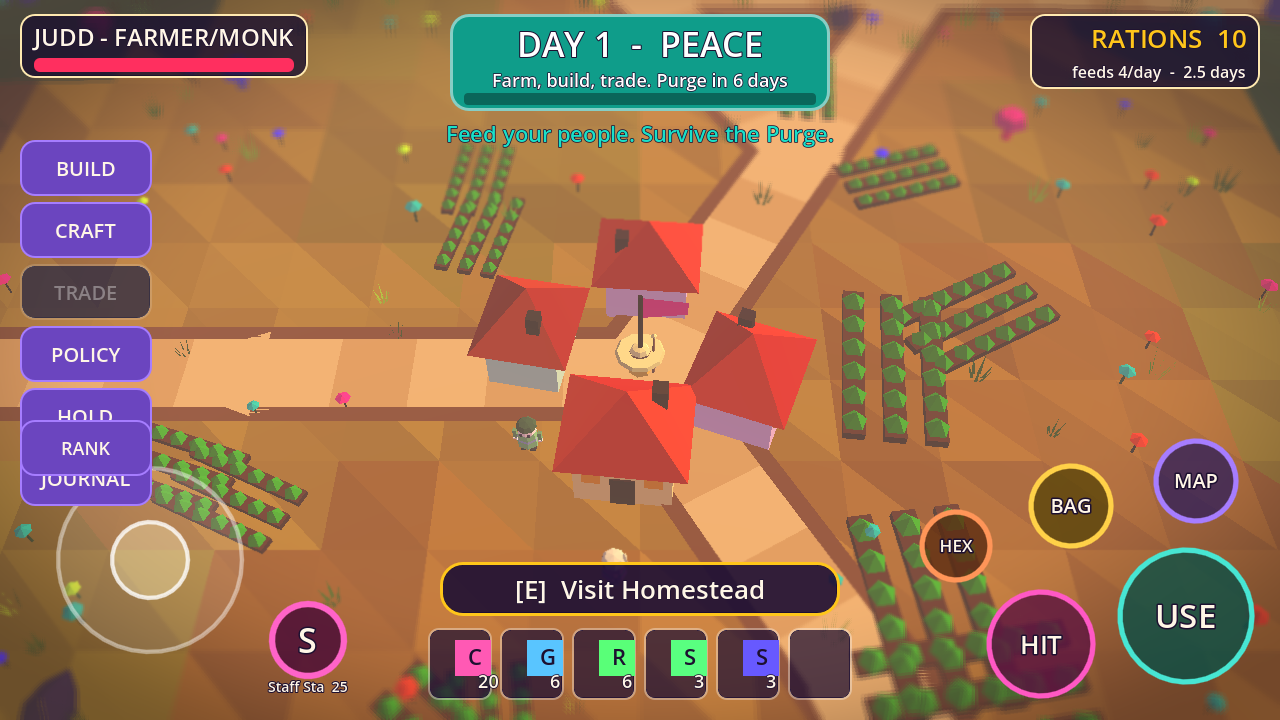
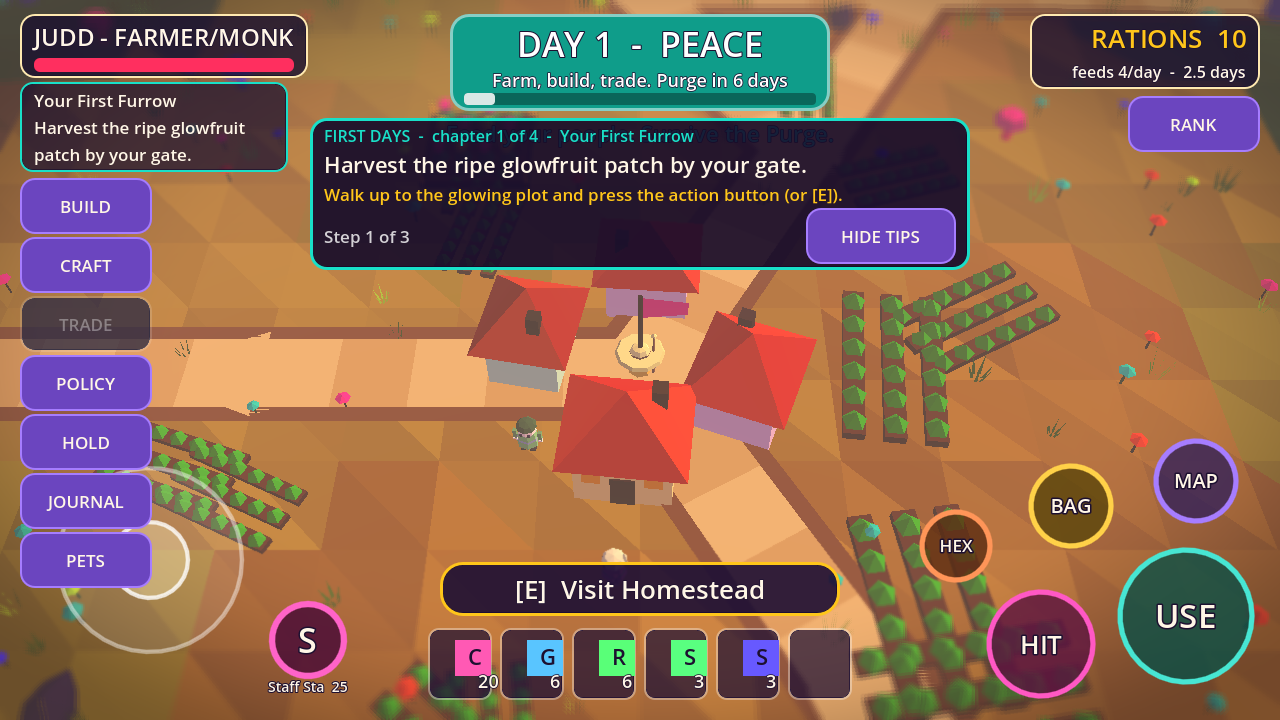
v0.5.0: pass 4 wiring, pass 5 convergence fixes, UI layout, play guide, reports
Claude-Session: https://claude.ai/code/session_016RWPuPUYHXU7mCfFED3ojH

Changed region(s): [[0.0, 0.0917, 0.7812, 0.825], [0.875, 0.1222, 1.0, 0.2139]]

diff --git a/PLAY.md b/PLAY.md
@@ -1,0 +1,22 @@
+# LFG! Last Farm Standing — v0.5.0 (playable build)
+
+Run `LFG.x86_64` (Linux) or `LFG.exe` (Windows). Single player, offline, no account.
+
+## Goal
+Thrive. Farm, build, explore, quest and rank up in peace; survive the weekly **Purge** (day 7: lawless, everyone can kill, steal and raid).
+Your leader dying ends the match (permadeath). The only win is **Total Conquest** (every rival gone, whole map yours). Rivals can win it too.
+
+## Controls (keyboard)
+- WASD move · Q/E rotate camera · mouse wheel zoom
+- E use / interact (water, harvest, plant, visit, POI) · F attack nearest · class ability on the bar (1-3)
+- B build menu · K skill tree · P standing · N main menu
+- Toolbar: BUILD CRAFT TRADE POLICY HOLD JOURNAL PETS · RANK (top right) · BAG, MAP, HEX buttons
+Touch UI (joystick + buttons) is built in but untested on a real phone.
+
+## First 10 minutes
+A short tutorial chain starts automatically (harvest, plant, water, eat, craft, build, read the Purge card).
+
+## Honest status
+- Verified: 54 test suites / 577 tests / 31,590 checks pass (headless, Godot 4.4.1); scripted play-through captures; the exported Linux binary starts a match.
+- NOT verified: human playtest, Windows binary run, Android, real online players, hosting. Multiplayer server code exists and is tested on localhost only; this build has no online menu.
+- Balance comes from bot simulations (docs/SIM_REPORT_1.md), not from human play.

diff --git a/CHANGELOG.md b/CHANGELOG.md
@@ -27,3 +27,9 @@
 
 ## v0.4.1 — Pass 3b (balance, questlines)
 - Class-balance work (mercy, settlers, conquerors, escape, home ground, ration discipline), six more full questlines (14/14 lines), death-log harness, killer-faction heir rule (AI that kills a leader inherits its realm). 48 suites / 481 tests green.
+
+## v0.5.0 — Passes 4 and 5
+- Pass 4: 6 creature companions, 7 region guardians with telegraphed phases, T4 materials, 3 stations, 10 buildables (zero-trade tech tree verified), first-10-minutes tutorial chain, bag EAT/USE.
+- Pass 5 Grand Simulation (40 seeds x 336d + 10 x 700d): found convergence regression (Total Conquest 1/40). Applied fixes: mercy rule ends week 24, final hunt from week 40 at 7 live factions, fewer revolts for big empires.
+- Re-run on the same 20 seeds: survivors at week 48 8.8 -> 3.0; single-survivor matches 3/20 -> 6/20; Total Conquest 1/20 -> 2/20. Cost: more eliminations (most classes now >75% eliminated by week 48, which is inherent when matches converge); Vex/Judd/Tavi/Forge land is low.
+- Export presets (Linux/Windows) and `--smoke` mode.

diff --git a/docs/TEST_REPORT.md b/docs/TEST_REPORT.md
@@ -39,3 +39,7 @@ Missing: meshes for shrine/greenhouse/forge (fallback hut), HUD standing strip (
 ## Pass 3 integrated run (lead)
 47 suites, 456 tests, 25019 checks, 0 failures. Journey (software GL, 8 captures incl. quest journal, standing, skills) no script errors.
 Agent-run sim (24 seeds x 336 days): Total Conquest 7/24; Vex eliminated 96%; 11 of 14 classes eliminated >60%; class land spread outside 0.5x-2x; Track/Truce unused by bots. Not a human playtest.
+
+## Pass 4/5 integrated run (lead)
+54 suites, 577 tests, 31590 checks, 0 failures. Journey (software GL, 9 captures) no script errors. Exported Linux binary: `--smoke` started a match, ticked 2 days, no script errors.
+Sim after pass-5 fixes (20 seeds, 336d): survivors@wk48 3.0 (was 8.8), one-alive-ever 6/20 (was 3/20), Total Conquest 2/20 (was 1/20), CPU 1.37 ms/tick. Elimination rates up (bram/forge/rook/tavi 90%, judd/oren/vex 95%): the 'no class eliminated >75%' criterion conflicts with convergence and should be replaced by survival-time and win-share bands. Not a human playtest.
